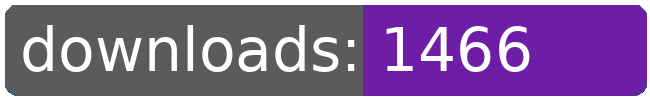
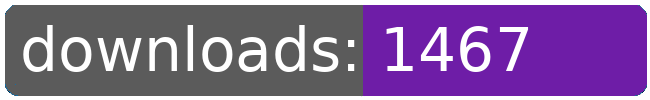
dl log written

Changed region(s): [[0.7692, 0.24, 0.8308, 0.72]]

diff --git a/README.md b/README.md
@@ -21,8 +21,8 @@
 		<td>1405</td>
 		<td>1430</td>
 		<td>1457</td>
-		<td>1466</td>
-		<td>+ 9</td>
+		<td>1467</td>
+		<td>+ 10</td>
 	</tr>
 	<tr>
 		<td>aberrant.kahet.outfitter</td>
@@ -252,8 +252,8 @@
 		<td></td>
 		<td></td>
 		<td></td>
-		<td>20068</td>
-		<td>53</td>
+		<td>20069</td>
+		<td>54</td>
 	</tr>
 </table>
 </sub></sup>
@@ -311,8 +311,8 @@
 		<td>1405</td>
 		<td>1430</td>
 		<td>1457</td>
-		<td>1466</td>
-		<td>+ 9</td>
+		<td>1467</td>
+		<td>+ 10</td>
 	</tr>
 	<tr>
 		<td>purchase.bactrian</td>
@@ -509,8 +509,8 @@
 		<td></td>
 		<td></td>
 		<td></td>
-		<td>20068</td>
-		<td>53</td>
+		<td>20069</td>
+		<td>54</td>
 	</tr>
 </table>
 </sub></sup>
@@ -538,7 +538,7 @@
 		<td>46</td>
 		<td>18</td>
 		<td>40</td>
-		<td>2</td>
+		<td>3</td>
 	</tr>
 	<tr>
 		<td>unique visitors</td>
@@ -550,7 +550,7 @@
 		<td>13</td>
 		<td>9</td>
 		<td>18</td>
-		<td>1</td>
+		<td>2</td>
 	</tr>
 </table>
 <br>
@@ -564,8 +564,8 @@
 	</tr>
 	<tr>
 		<td>2025-10-15</td>
-		<td>2543</td>
-		<td>512</td>
+		<td>2544</td>
+		<td>513</td>
 		<td>192</td>
 		<td>21</td>
 	</tr>
@@ -578,8 +578,8 @@
 	</tr>
 	<tr>
 		<td>53</td>
-		<td>47.98</td>
-		<td>9.66</td>
+		<td>48.00</td>
+		<td>9.68</td>
 		<td></td>
 		<td></td>
 	</tr>
